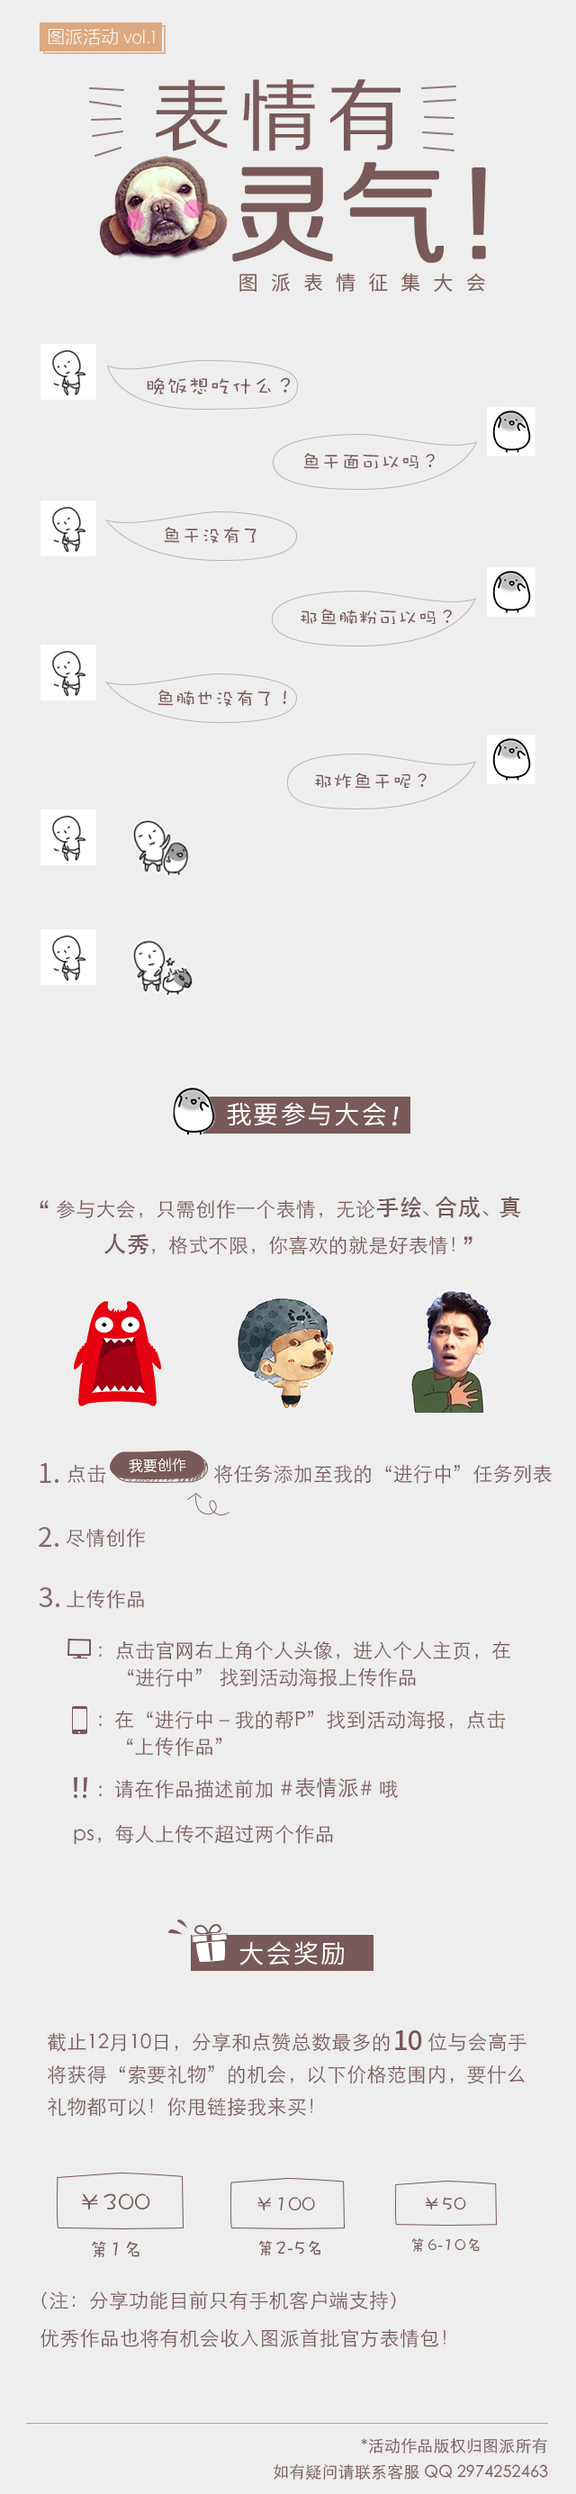
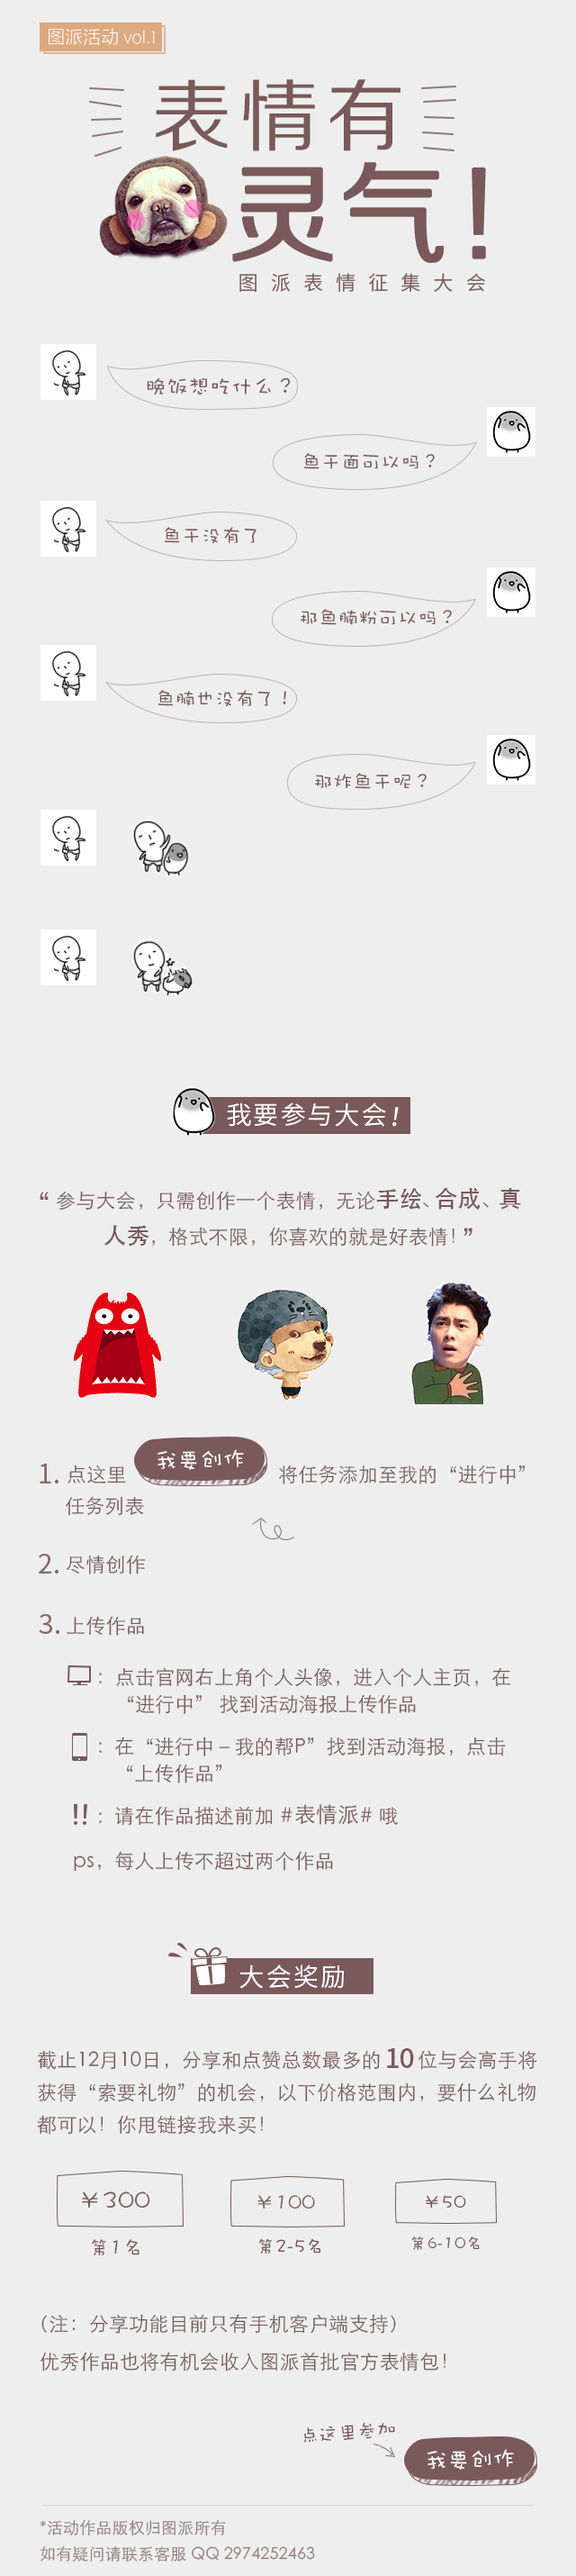
style

diff --git a/public/scripts/app/templates/activityH5.html b/public/scripts/app/templates/activityH5.html
@@ -2,7 +2,7 @@
 <html lang="en">
 <head>
 <meta charset="utf-8">
-	<link rel="stylesheet" href="./main/css/activity.css">
+	<link rel="stylesheet" href="../../../main/css/activity.css">
 	<meta charset="utf-8">
 	<meta content="width=device-width, initial-scale=1.0, maximum-scale=1.0, user-scalable=0" name="viewport" />
 	<meta name="apple-mobile-web-app-capable" content="yes" />
@@ -12,7 +12,7 @@
 </head>
 <body>
 	<div class="activity">
-		<img src="./main/img/activity.png" alt="">
+		<img src="../../../main/img/activity.png" alt="">
 		<a href="https://www.baidu.com/">
 			<div class="activity-btn"></div>
 		</a>

diff --git a/public/index.html b/public/index.html
@@ -6,6 +6,7 @@
     <meta name="viewport" content="width=device-width, initial-scale=1">
     <meta name="description" content="图派">
     <meta name="keywords" content="PS,社区">
+    <meta property="wb:webmaster" content="cd0d265f8e3e0cb0" />
     <link rel="icon" href="/main/img/favicon.ico" type="image/x-icon" /> 
     <link rel="stylesheet" type="text/css" href="/main/css/common.css">
     <link rel="stylesheet" type="text/css" href="/main/css/index.css">

diff --git a/public/ReplyShareView.html b/public/ReplyShareView.html
@@ -50,7 +50,7 @@
 		<section class="footer-reply">
 			<div class="tupai-description">
 				<span class="code-remind">
-					<span class="remind-content-1">长按识别二维码,</span>
+					<span class="remind-content-1">长按识别二维码下载图派</span>
 					<span class="remind-content-2">看更多让你意想不到的图片</span>
 				</span>
 				<span class="code-picture">

diff --git a/public/main/less/activity.less b/public/main/less/activity.less
@@ -121,7 +121,14 @@ body {
     width: 100%;
     height: 200px;
         position: absolute;
-    top: 54%;
+    top: 52%;
+    line-height: normal;
+}
+.activity-btn-1 {
+    width: 100%;
+    height: 200px;
+    position: absolute;
+    bottom: 0px;
     line-height: normal;
 }
 @media screen and (min-width:640px){

diff --git a/public/main/css/activity.css b/public/main/css/activity.css
@@ -183,7 +183,14 @@ body {
   width: 100%;
   height: 200px;
   position: absolute;
-  top: 54%;
+  top: 52%;
+  line-height: normal;
+}
+.activity-btn-1 {
+  width: 100%;
+  height: 200px;
+  position: absolute;
+  bottom: 0px;
   line-height: normal;
 }
 @media screen and (min-width: 640px) {

diff --git a/resources/views/main/h5/ask.php b/resources/views/main/h5/ask.php
@@ -39,7 +39,7 @@
 		<section class="footer-ask">
 			<div class="tupai-description">
 				<span class="code-remind">
-					<span class="remind-content-1">长按识别二维码,</span>
+					<span class="remind-content-1">长按识别二维码下载图派</span>
 					<span class="remind-content-2">看更多让你意想不到的图片</span>
 				</span>
 				<span class="code-picture">
